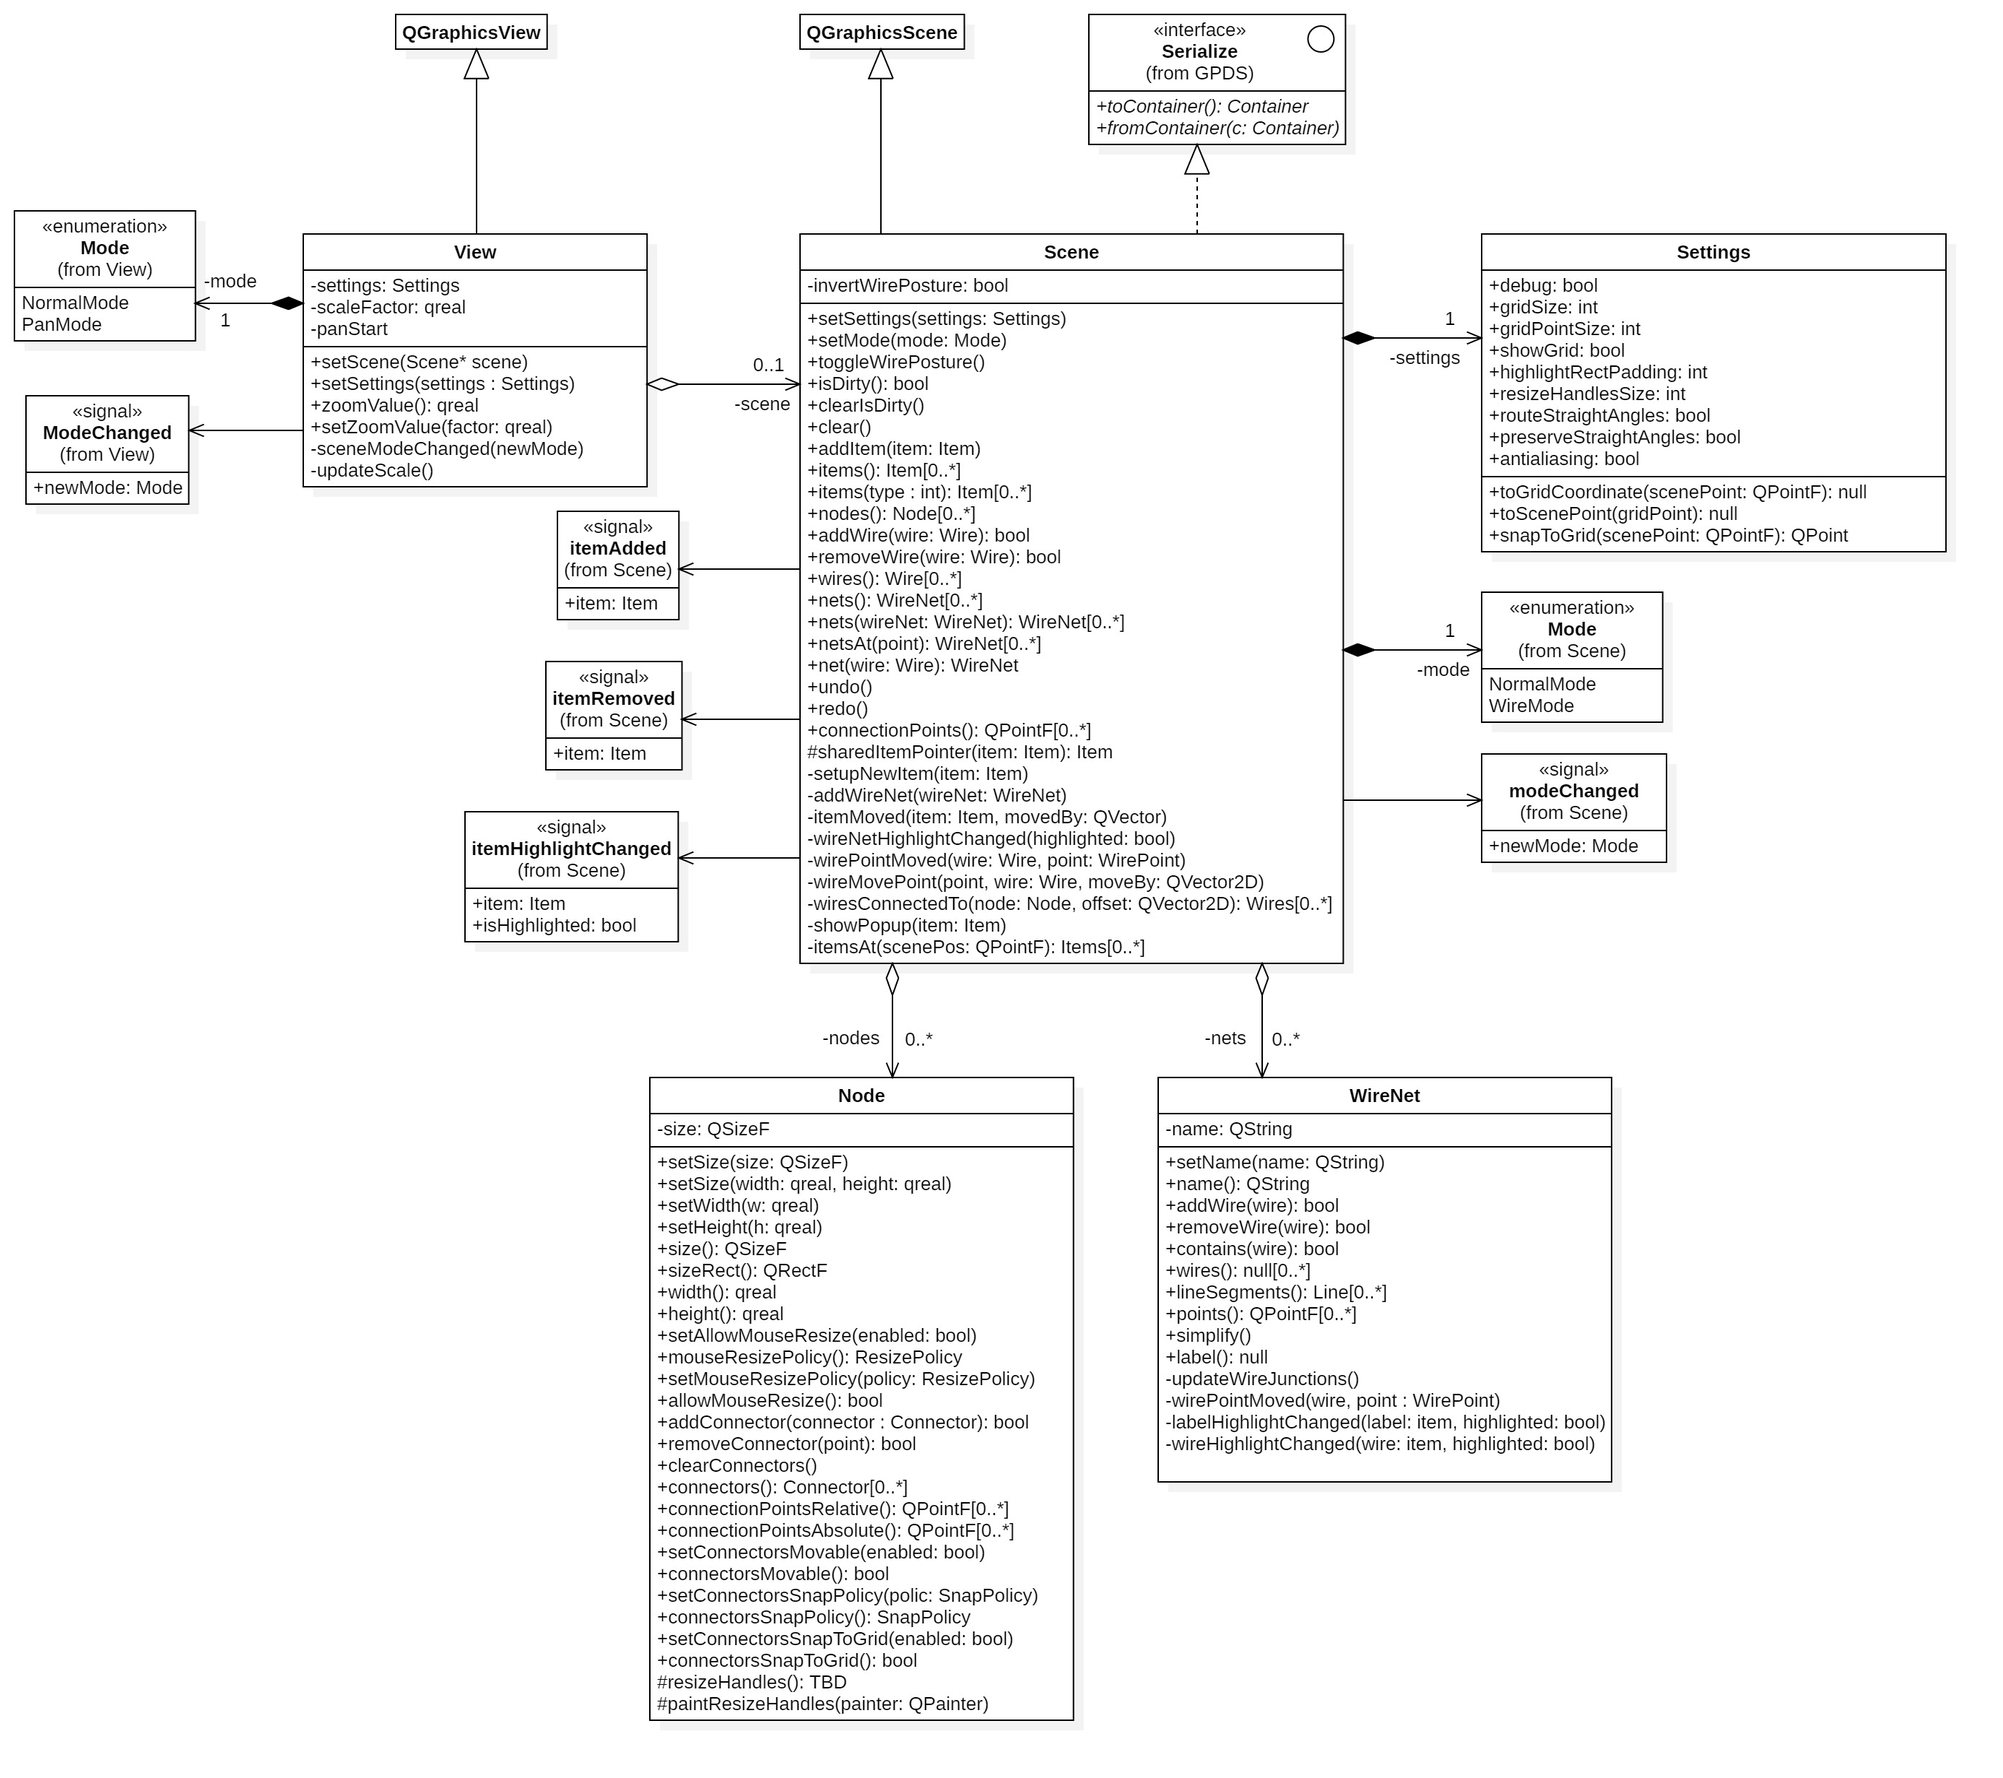
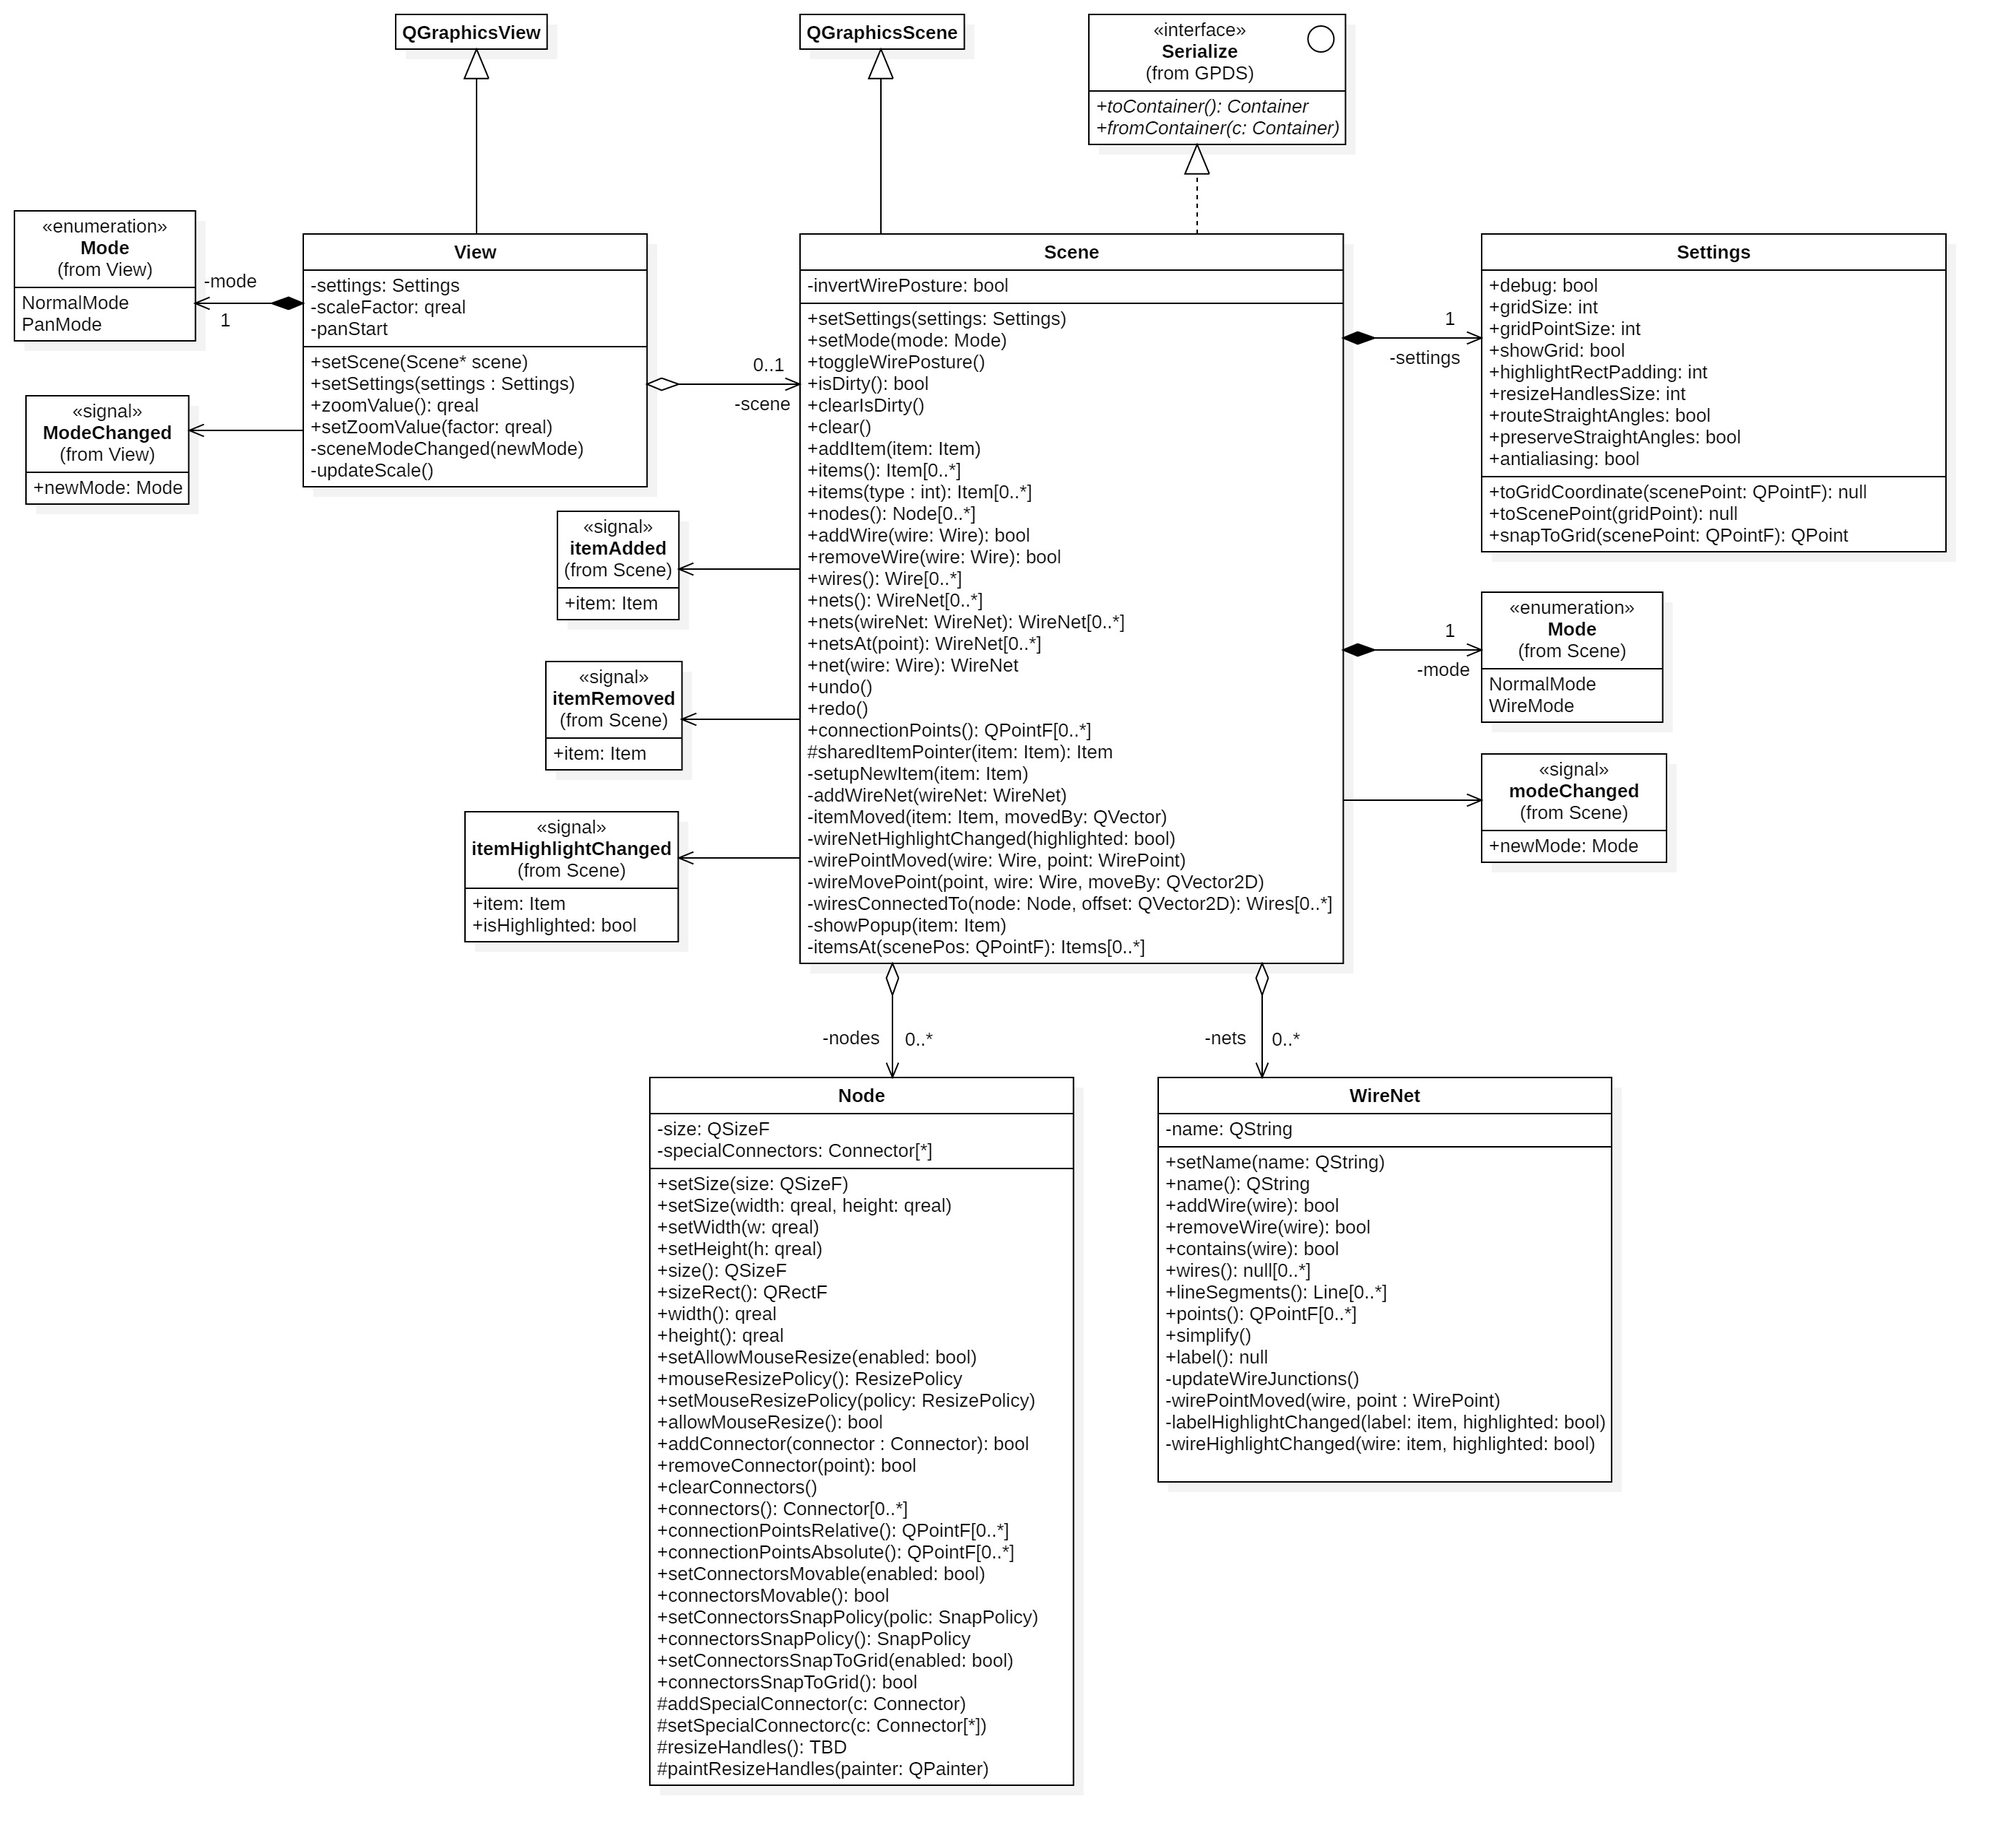
Add special connectors to Node class

diff --git a/qschematic/items/node.cpp b/qschematic/items/node.cpp
@@ -44,6 +44,10 @@ Gpds::Container Node::toContainer() const
     // Connectors
     Gpds::Container connectorsContainer;
     for (const auto& connector : connectors()) {
+        if ( _specialConnectors.contains( connector.get() ) ) {
+            continue;
+        }
+
         connectorsContainer.addValue("connector", connector->toContainer());
     }
 
@@ -108,6 +112,10 @@ void Node::copyAttributes(Node& dest) const
     // Connectors
     dest.clearConnectors();
     for (const auto& connector : _connectors) {
+        if ( _specialConnectors.contains( connector.get() ) ) {
+            continue;
+        }
+
         auto connectorClone = qgraphicsitem_cast<Connector*>(connector->deepCopy().release());
         connectorClone->setParentItem(&dest);
         dest._connectors << std::shared_ptr<Connector>(connectorClone);
@@ -123,6 +131,7 @@ void Node::copyAttributes(Node& dest) const
     dest._connectorsMovable = _connectorsMovable;
     dest._connectorsSnapPolicy = _connectorsSnapPolicy;
     dest._connectorsSnapToGrid = _connectorsSnapToGrid;
+    dest._specialConnectors = _specialConnectors;
 }
 
 Node::Mode Node::mode() const
@@ -199,6 +208,16 @@ bool Node::allowMouseResize() const
 bool Node::allowMouseRotate() const
 {
     return _allowMouseRotate;
+}
+
+void Node::addSpecialConnector(const Connector* connector)
+{
+    _specialConnectors.push_back( connector );
+}
+
+void Node::setSpecialConnectors(QVector<const Connector*>&& connectors)
+{
+    _specialConnectors = std::move( connectors );
 }
 
 QMap<RectanglePoint, QRectF> Node::resizeHandles() const

diff --git a/qschematic/items/node.h b/qschematic/items/node.h
@@ -76,6 +76,8 @@ namespace QSchematic {
 
     protected:
         void copyAttributes(Node& dest) const;
+        void addSpecialConnector(const Connector* connectors);
+        void setSpecialConnectors(QVector<const Connector*>&& connectors);
         QMap<RectanglePoint, QRectF> resizeHandles() const;
         QRectF rotationHandle() const;
         virtual void paintResizeHandles(QPainter& painter);
@@ -92,6 +94,7 @@ namespace QSchematic {
         Connector::SnapPolicy _connectorsSnapPolicy;
         bool _connectorsSnapToGrid;
         QList<std::shared_ptr<Connector>> _connectors;
+        QVector<const Connector*> _specialConnectors;  // Ignored in serialization and deep-copy
     };
 
 }
